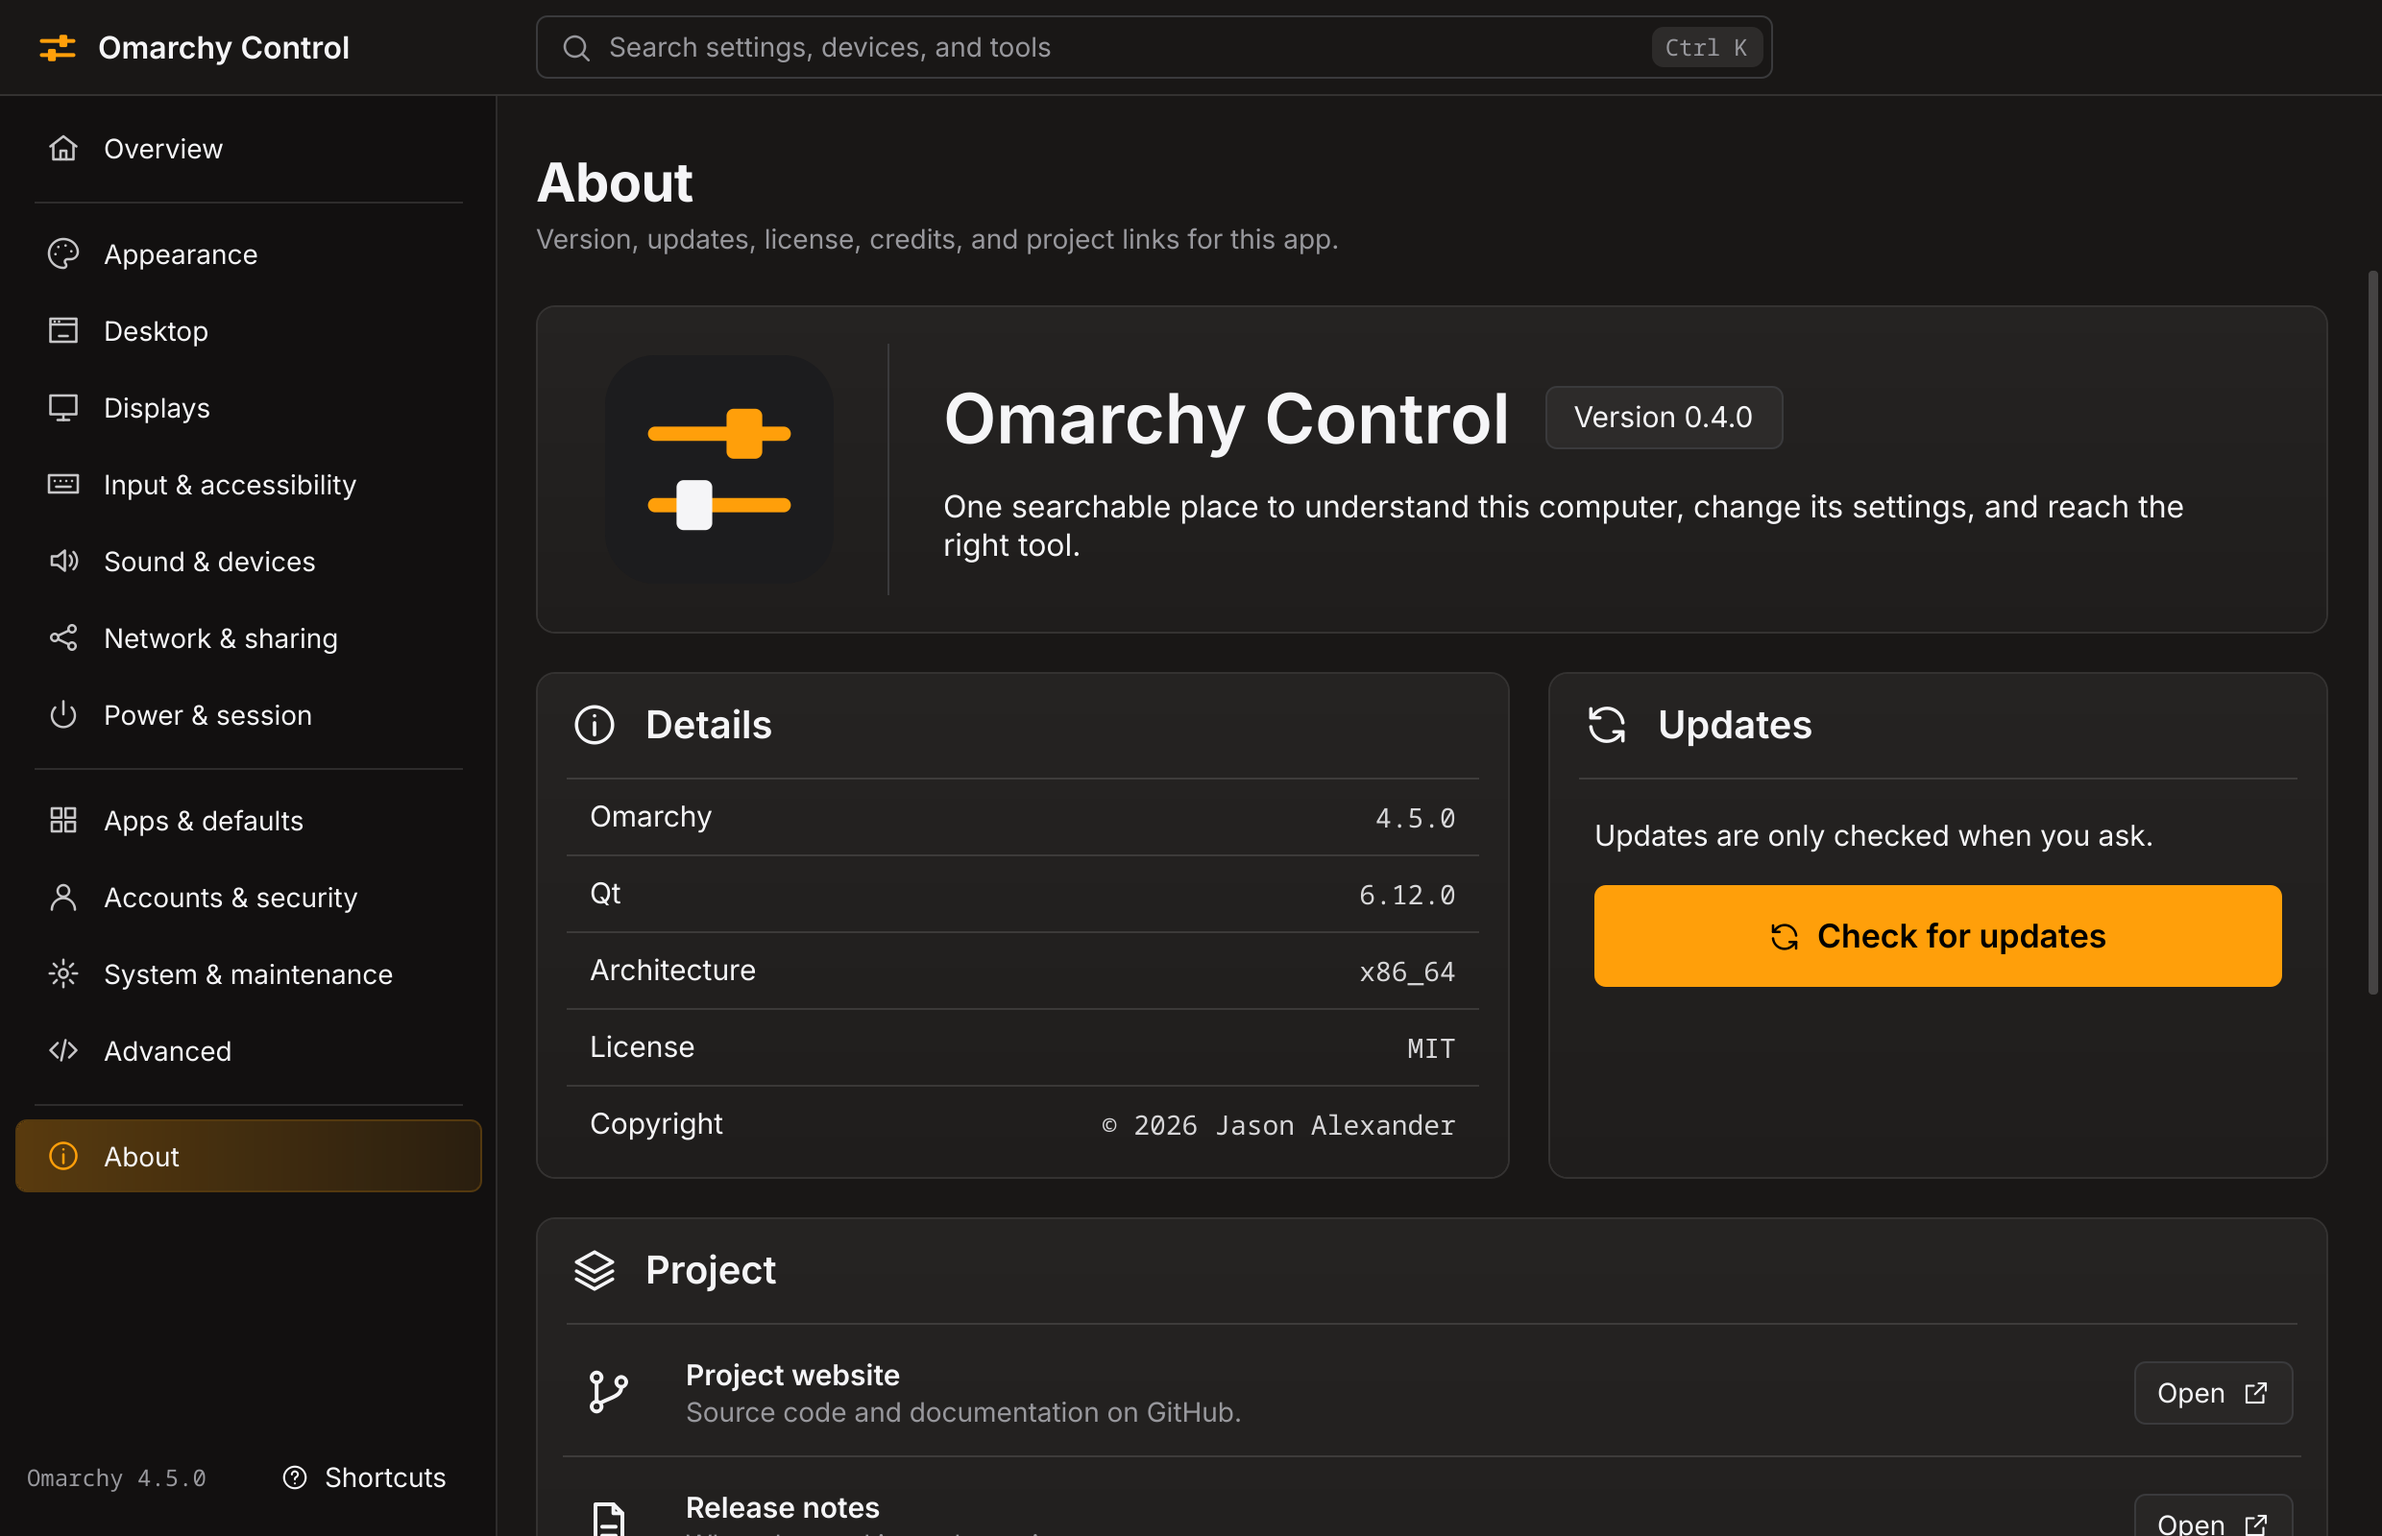
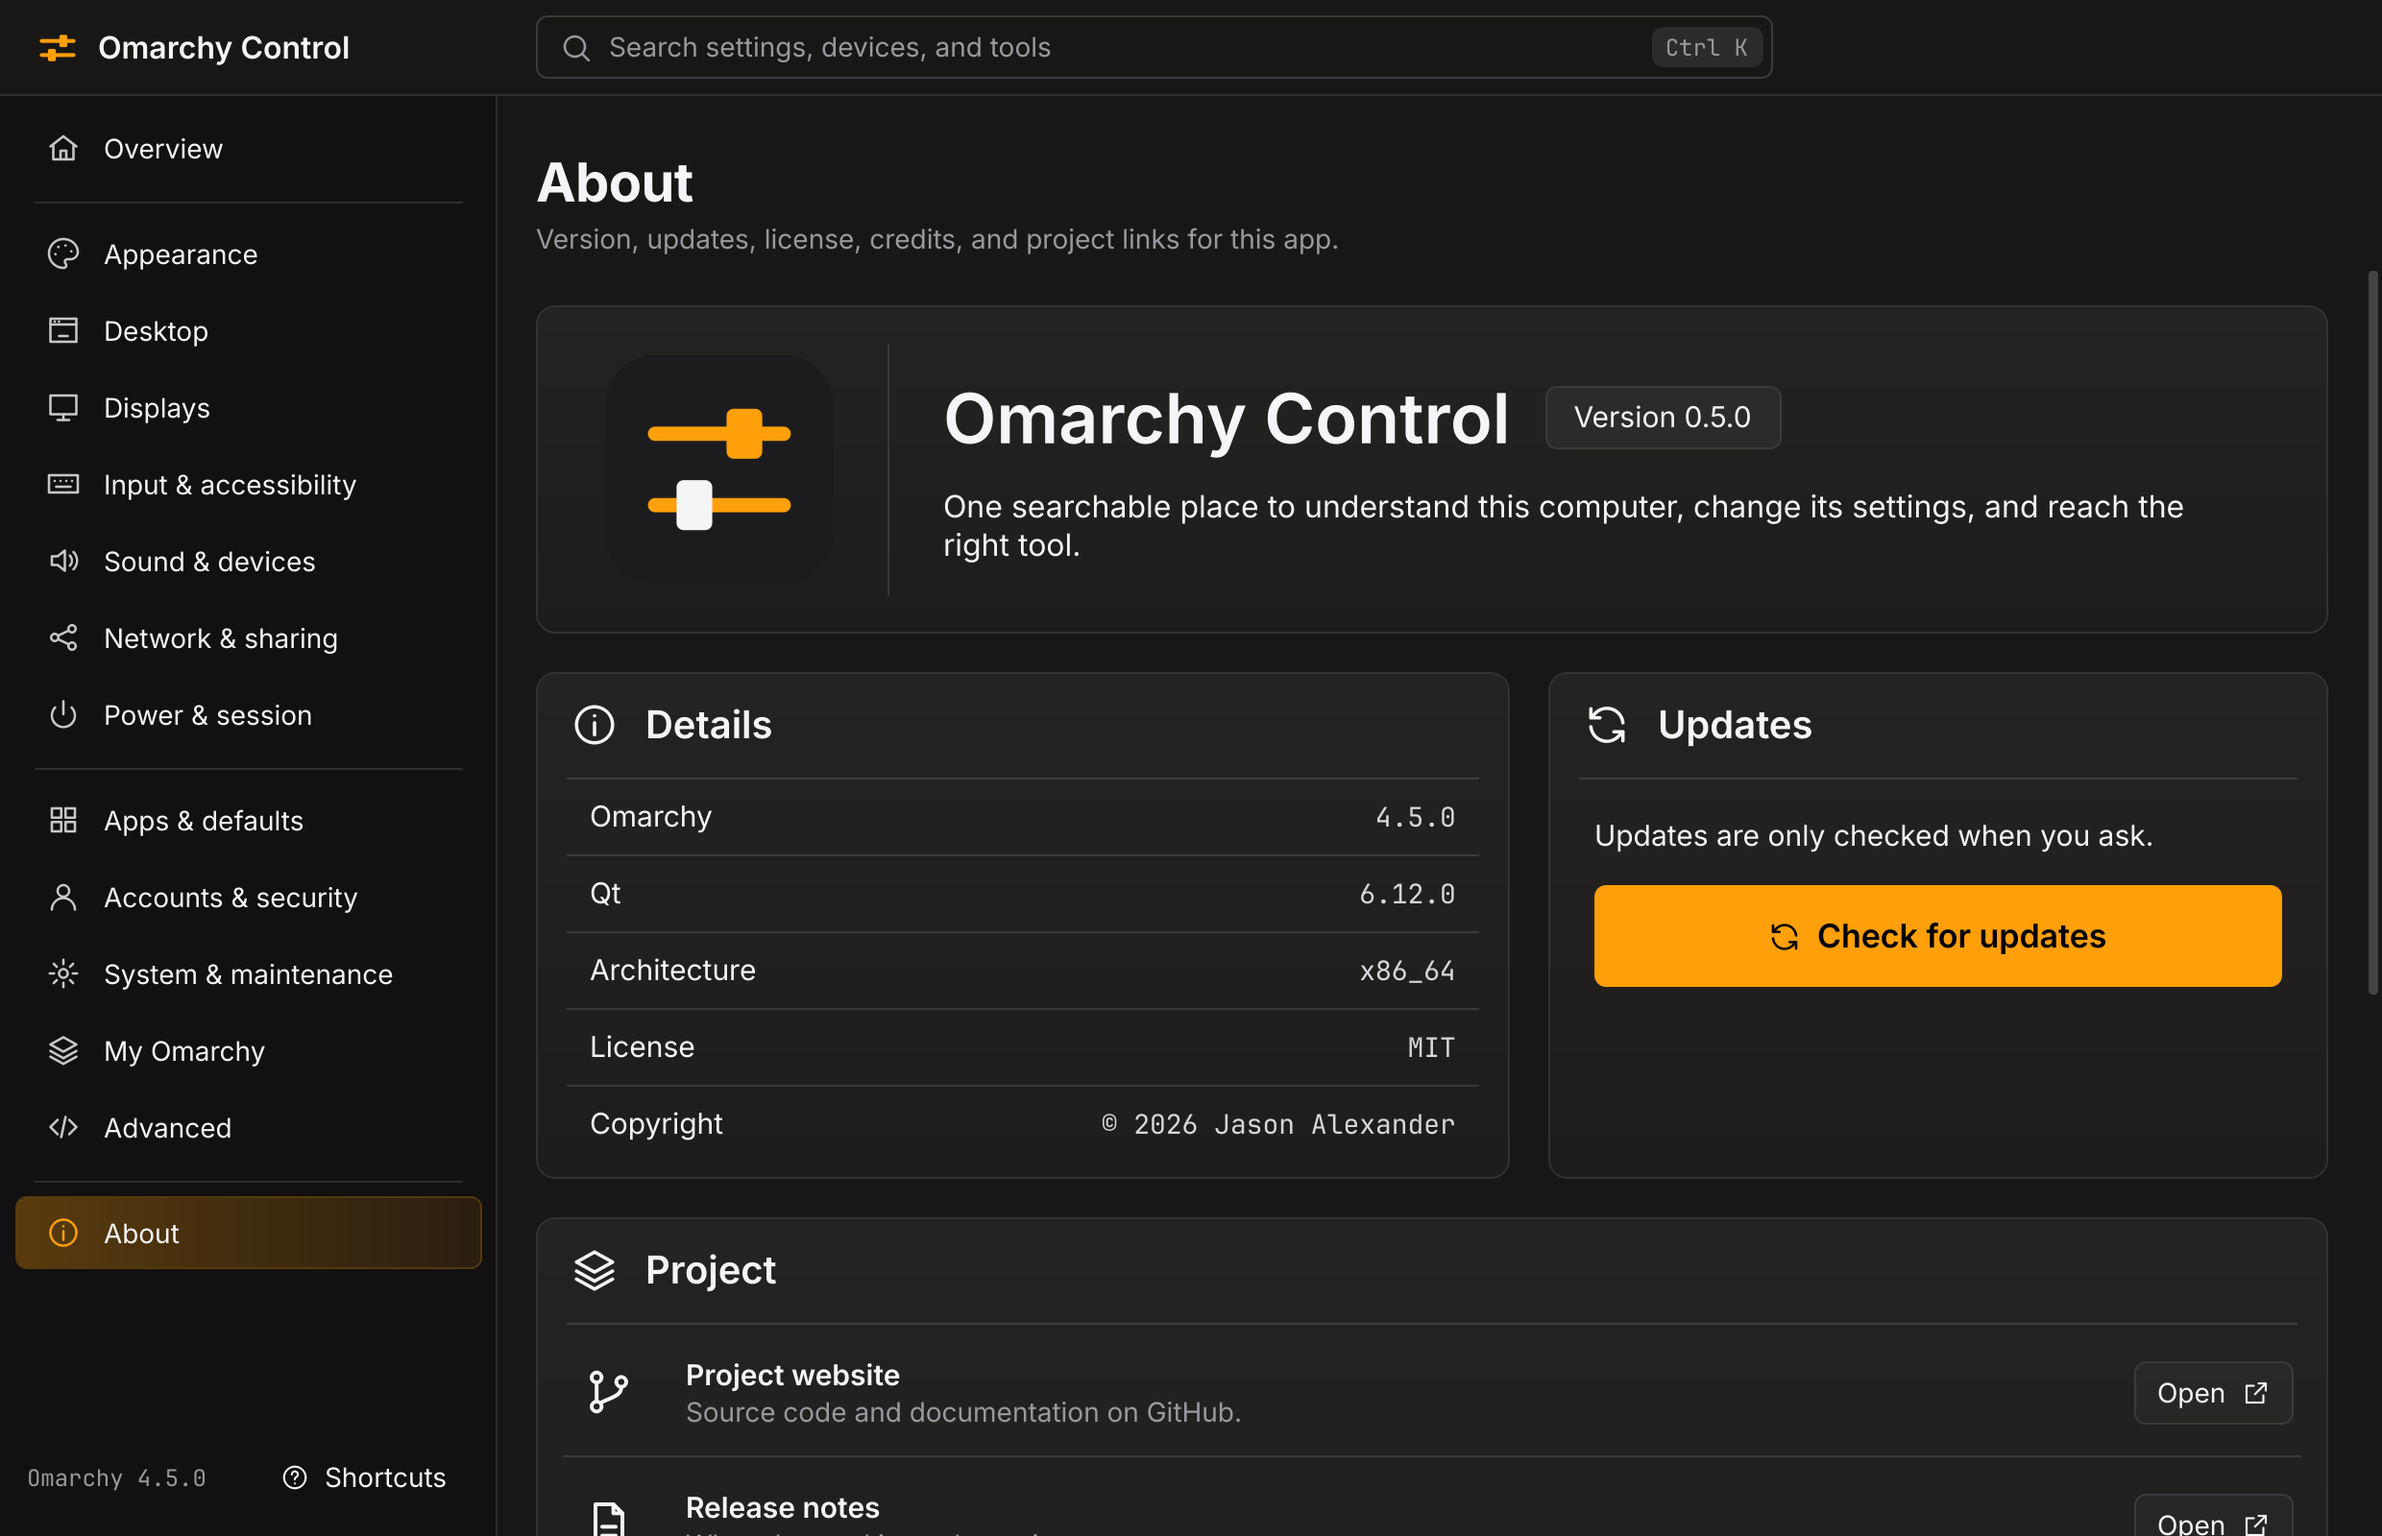
Release 0.5.0
Bumps the version to 0.5.0 everywhere it is written, and refreshes the
README's screenshots, which now show My Omarchy in the sidebar and on
the Overview, and its test count. The release adds My Omarchy: saving
this computer's settings, apps, and desktop choices as versions,
publishing them to a private GitHub repository, and restoring them on
another Omarchy installation, from the window or the command line.

diff --git a/README.md b/README.md
@@ -131,7 +131,7 @@ Every public Omarchy command and menu row in the 4.5 inventory has a destination
 - **Passwords are never collected.** Joining a secured network goes to Omarchy's panel, and installing an update leaves the password prompt to `sudo`.
 
 > [!NOTE]
-> **Version 0.4.0, built against Omarchy 4.5 and Hyprland 0.56.** 60 of 76 writable settings, display recovery, and the real window are verified against real Hyprland, the real shell, and real Omarchy scripts in an isolated nested session, and every setting reads correctly on real hardware. The checklist of changes on a real desktop session is still open. [What has and has not been verified](docs/LIVE-CHECKS.md) has the details.
+> **Version 0.5.0, built against Omarchy 4.5 and Hyprland 0.56.** 60 of 76 writable settings, display recovery, and the real window are verified against real Hyprland, the real shell, and real Omarchy scripts in an isolated nested session, and every setting reads correctly on real hardware. The checklist of changes on a real desktop session is still open. [What has and has not been verified](docs/LIVE-CHECKS.md) has the details. My Omarchy, new in this version, is tested with fake commands, real git, and real pacman in a disposable root; a restore onto a fresh installation is still to be checked ([details](docs/MY-OMARCHY.md)).
 
 ## Keyboard shortcuts
 
@@ -196,7 +196,7 @@ Building from source needs `qt6-base`, `qt6-declarative`, `qt6-svg`, and `qt6-wa
 ```sh
 bin/build                  # build/omarchy-control
 bin/install                # Build the Arch package from this checkout and install it
-bin/test                   # 405 tests; never touches the real desktop
+bin/test                   # 521 tests; never touches the real desktop
 tools/nested-check.py      # Real Hyprland and Omarchy scripts in an isolated session
 tools/package-check.sh     # Install, upgrade, and remove in a disposable pacman root
 tools/profile-package-check.sh  # Restore apps from a profile with real pacman, in a disposable root
@@ -214,10 +214,10 @@ To check a layout for translation, write `en-XA` to the sandbox's `~/.config/oma
 **Releasing:** pushing a version tag tests the code, builds the package, and publishes it.
 
 ```sh
-tools/set-version.sh 0.4.0
-git commit -am "Release 0.4.0"
-git tag v0.4.0
-git push origin main v0.4.0
+tools/set-version.sh 0.5.0
+git commit -am "Release 0.5.0"
+git tag v0.5.0
+git push origin main v0.5.0
 ```
 
 Project documents: [plan](docs/PLAN.md), [coverage](docs/COVERAGE.md), [P0 findings](docs/P0-FINDINGS.md), [live checks](docs/LIVE-CHECKS.md).

diff --git a/docs/README.md b/docs/README.md
@@ -2,7 +2,7 @@
 
 A native control center for Omarchy: one searchable place to understand the machine, change its settings, and open the right specialist tool.
 
-Version 0.4.0 is built, tested, and verified on real Hyprland in an isolated nested session, but has not yet changed anything on a real desktop session. See [what has and has not been verified](LIVE-CHECKS.md). The plan is grounded in a read-only audit of the local Omarchy 4.5 installation on November 5, 2026.
+Version 0.5.0 is built, tested, and verified on real Hyprland in an isolated nested session, but has not yet changed anything on a real desktop session. See [what has and has not been verified](LIVE-CHECKS.md). The plan is grounded in a read-only audit of the local Omarchy 4.5 installation on November 5, 2026.
 
 - [Implementation plan](PLAN.md): product direction, native design, architecture, change handling, milestones, and acceptance criteria.
 - [Icon theme plan](ICON-THEMES-PLAN.md): installed icon pack selection, previews, persistent overrides, local folder import, and verification gates.
